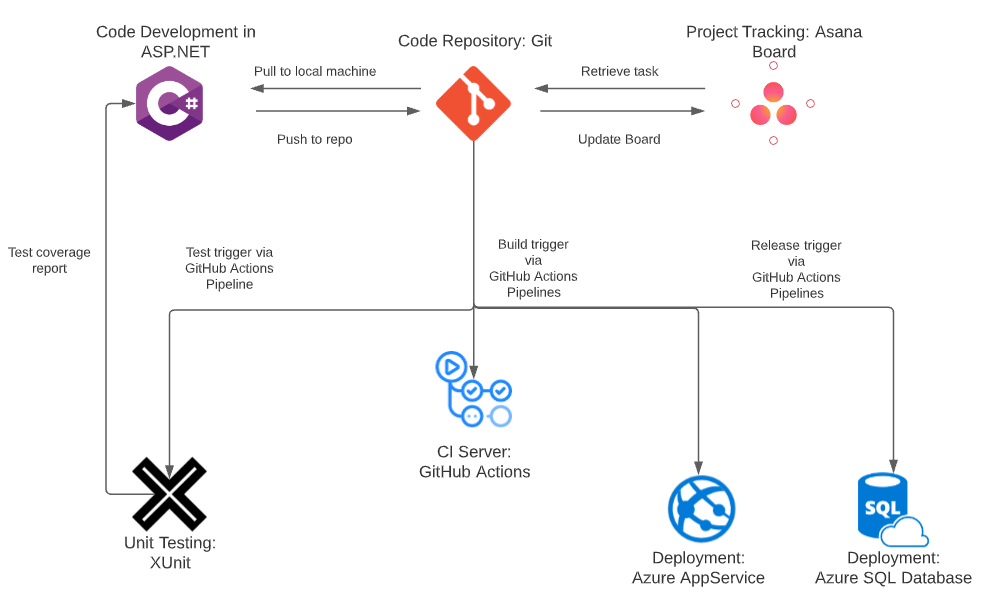
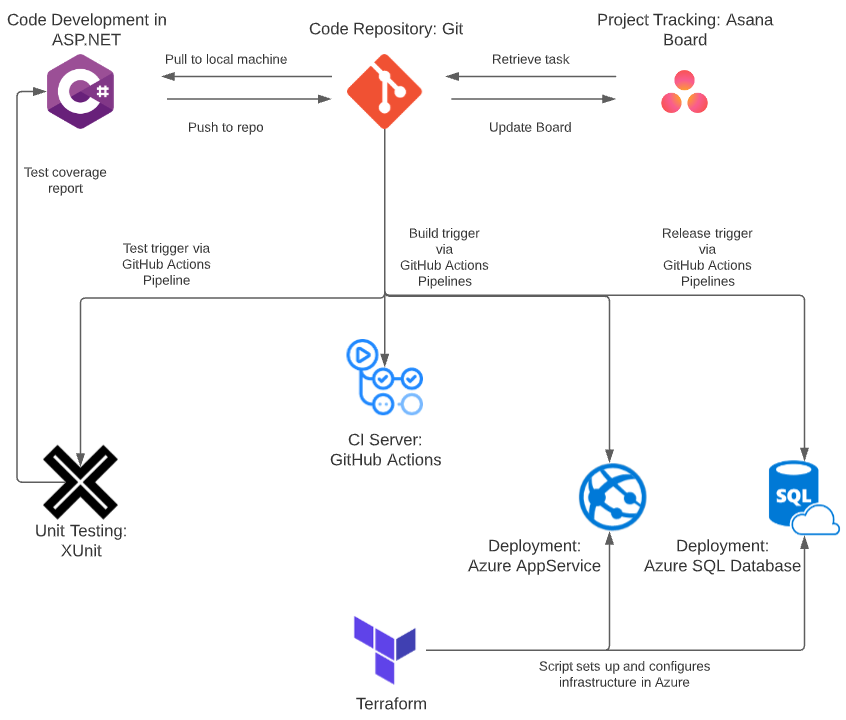
Add to readme, add pics for readme

diff --git a/README.md b/README.md
@@ -26,69 +26,74 @@ The requirements of the project are as follows:
 
 ## My Approach
 
-In order to achieve this, I have decided to produce a Holiday Generator.
+In order to achieve this, I have decided to produce a Holiday Generator App. The services used in this application would generate random periods, months and countries to form a random potential holiday.
 
+### User Stories
+The following user stories served as the starting product backlog items, from which child tasks were devised.
 
-|Service| Host Resource| Objective
-|---|---|---|
-Service 1 - Days| Azure App Service (Web App)| Generates the period of days that the holiday should be for. Randomly selects a number from an array that holds periods as integers, i.e. [3, 7, 14, etc.]
-Service 2 - Month| Azure App Service (Web App)| Generates the month that the holiday should be in. Randomly selects a month from an enumeration consisting of the 12 months of the year, i.e. [JAN, FEB, MAR, etc.]
-Service 3 - Merge| Azure App Service (Web App)| Takes the period of days from service 1 and the month from service 2 using GET requests. Generates a random country, based on the month. If the month is a cold month (e.g. DEC), randomly select a country from an array that holds a list of hot countries. If the month is a warm month (e.g. AUG), randomly select a country from an array that holds a list of cold countries. Returns the country, the month and the period of days combined.
-Service 4 - Front-End | Azure App Service (Web App)| Makes a GET request to take the result from service 3, stores the information in a database and then outputs the results to the web page for the user to see.
-Database | Azure SQL Database| Stores the results of service 4. The creation of the database entries take place in service 4.
+> As a User I want to be able to see a randomly generated month so that I can plan when to book my holiday.
 
-#### Service 1 - Days
-This service will generate the period of days that the holiday should be for. This service will randomly select a number from an array that holds periods as integers, i.e. [3, 7, 14, etc.]
+> As a User I want to be able to see a randomly generated period of days so that I can plan for how long to go on holiday.
 
-#### Service 2 - Month
-This service will generate the month that the holiday should be in. This service will randomly select a month from an enumeration consisting of the 12 months of the year, i.e. [JAN, FEB, MAR, etc.]
-
-#### Service 3 - Merge
-This service will take the period of days from service 1 and the month from service 2 using GET requests. It will then generate a random country, based on the month. 
-If the month is a cold month (e.g. DEC), it will randomly select a country from an array that holds a list of hot countries. If the month is a warm month (e.g. AUG), it will randomly select a country from an array that holds a list of cold countries. 
-This service will then return the country, the month and the period of days combined.
-
-#### Service 4 - Front-End
-This will make a GET request to take the result from service 3, store the information in a database and then output the results to the web page for the user to see.
-
+> As a User I want to be able to see a randomly generated country so that I can plan where to go on my holiday.
 
 ## Architecture
-### Database Structure
+
+### Service Architecture
+
+[Service Architecture](https://github.com/AmenaRafiq/HolidayGenerator/blob/main/docs/readme_pictures/servicearchitecture.PNG)
+
+| Service | Host Resource | Objective |
+|---|---|---|
+Service 1: Days| Azure App Service (Web App)| Generates the period of days that the holiday should be for. Randomly selects a number from an array that holds periods as integers, i.e. [3, 7, 14, etc.]
+Service 2: Month| Azure App Service (Web App)| Generates the month that the holiday should be in. Randomly selects a month from an enumeration consisting of the 12 months of the year, i.e. [JAN, FEB, MAR, etc.]
+Service 3: Merge| Azure App Service (Web App)| Takes the period of days from service 1 and the month from service 2 using GET requests. Generates a random country, based on the month. If the month is a cold month (e.g. DEC), randomly select a country from an array that holds a list of hot countries. If the month is a warm month (e.g. AUG), randomly select a country from an array that holds a list of cold countries. Returns the country, the month and the period of days combined.
+Service 4: Front-End | Azure App Service (Web App)| Makes a GET request to take the result from service 3, stores the information in a database and then outputs the results to the web page for the user to see.
+Database | Azure SQL Database| Stores the results of service 4. The creation of the database entries take place in service 4.
 
 ### Database Structure
 
-Below is an Entity Relationship Diagram showing the structure of the database. It shows the tables and the relationship between them. 
+Below is a somewhat vain Entity Relationship Diagram showing the structure of the database, which has just one table to store the results. The front-end application creates entries in the database each time new objects are generated and passed to it, i.e. every time the page refreshes. 
 
-insert image
+[Database ER diagram]()
 
 ### CI Pipeline
 
-Below is the continuous integration pipeline diagram that displays the project's associated services and frameworks. It shows how 
+Below is the continuous integration pipeline diagram that depicts how the project's associated services and frameworks work together. 
 
-insert image
+[architecture image](https://github.com/AmenaRafiq/HolidayGenerator/blob/main/docs/readme_pictures/architecture.PNG)
+
+It shows how the tasks in the Kanban board are used to produce the code, which is stored in a Git repository. The development of the project's assets are organised by separate git branches; once the feature is complete, the branch is merged into the main branch. Usually the feature branch is then deleted - I have kept them in the repository for marking purposes only. A GitHub Actions pipeline was used to test, build and deploy the project to Azure resources that were set up and configured by a terraform script.
+
+Here is a snippet of the terraform script, the full script can be viewed at [main.tf](https://github.com/AmenaRafiq/HolidayGenerator/blob/main/terraform/main.tf)
+
+[Terraform snippet]()
+
+An Azure App Service is provisioned for the front-end app with configurations to give it access to the database and the merge app for the code's GET requests. 
+
+Here is a snippet of the pipeline, the full script can be viewed at [main.yml](https://github.com/AmenaRafiq/HolidayGenerator/blob/main/.github/workflows/main.yml)
+
+[Pipeline snippet]()
+
+This snippet shows two jobs: test and build-and-deploy-days. Inside each job, steps are run on Linux machines, configured using workflow variables. The test job runs the test project [HolidayGeneratorTest](https://github.com/AmenaRafiq/HolidayGenerator/tree/main/code/HolidayGeneratorTest). The following job builds and deploys the [Days](https://github.com/AmenaRafiq/HolidayGenerator/tree/main/code/DaysService) app to Azure. The Month, Merge and Front-End apps are built and deployed with very similar jobs. The whole pipeline runs every time the main branch is pushed to, to allow for continuous deployment and integration.
 
 ## Project Tracking
 
-Asana was used to create a Kanban Board to track the progress of the project. The KanBan Board can be found [here]
-(Ben although the project is set to public I might need to add you as a member so you can fully access the board)
+Asana was used to create a Kanban Board to track the progress of the project. The Kanban Board can be found [here](https://app.asana.com/0/1200434306149251/board)
+(Although the project is set to public, I might need to add you as a member so you can fully access the board)
 
-The BackLog consists of the Epics and User Stories. 
-add image
+The board was designed with columns that move a task along the board from left to right until completion: 
+* Backlog
+* To Do (used for current sprint items)
+* Doing
+* Done
 
-Sprints then break down these stories with the additions of child tasks. Two sprints were devised, unfinished work from Iteration 1 was moved to Iteration 2.
+Here is a snippet of the board to show the columns:
+[Asana board snippet](https://github.com/AmenaRafiq/HolidayGenerator/blob/main/docs/readme_pictures/asanaboardsnippet.PNG)
 
-[Iteration 1]()
-add image
+Here is a snippet of some of the work items, in which it is shown that the user stories were also part of the backlog: 
+[Asana board work items snippet](https://github.com/AmenaRafiq/HolidayGenerator/blob/main/docs/readme_pictures/sampleworkitems.PNG)
 
-[Iteration 2]()
-add image
-
-The Boards were designed with columns that move a task along the board from left to right in stages of: 
-* New
-* Active 
-* Two stages of Completion: 
-  * Resolved (for bug fixes)  
-  * Closed (for the completion of tasks)
 
 ## Risk Assessment
 
@@ -96,21 +101,20 @@ insert risk assessment
 
 ## Testing
 
-[XUnit](https://xunit.net/) has been used to run unit tests. This tool makes use of an Assertion Library so that tests can be written to compare the result of a function to a known output. The tests for all of the projects (Days, Month, Merge, Front-End) are run in the pipeline. The following image is the section of the pipeline which runs the tests:
-
-[pipeline config image]()
+[XUnit](https://xunit.net/) has been used to run unit tests. This tool makes use of an Assertion Library so that tests can be written to compare the result of a function to a known output. The tests for all of the projects (Days, Month, Merge, Front-End) are run in the pipeline (as was shown in the pipeline section above). All four of the application's controllers have been tested to ensure the backend is fully functional so there are no faults for the front-end of each app. 
 
 ### Console Output
 
 Below is a screenshot of the console output from running the tests which displays the number of tests passed or failed:
 
-[console output image]()
+[console output image](https://github.com/AmenaRafiq/HolidayGenerator/blob/main/docs/readme_pictures/testrun.PNG)
 
 ### Coverage Report
 
-Below is a screenshot of the test coverage report that has been generated to display a breakdown of the successfully tested code in the app. The report is located in the HolidayGeneratorTest project
+Below is a screenshot of the test coverage report that has been generated to display a breakdown of the successfully tested code in the app.
 
-[coverage report image]()
+[coverage report image](https://github.com/AmenaRafiq/HolidayGenerator/blob/main/docs/readme_pictures/codecoverage1.PNG)
+[coverage report image](https://github.com/AmenaRafiq/HolidayGenerator/blob/main/docs/readme_pictures/codecoverage2.PNG)
 
 
 ## Front-End Design
@@ -118,6 +122,7 @@ Below is a screenshot of the test coverage report that has been generated to dis
 -
 
 ## Future Improvements
+
 Deploying the 3 services (Days, Month and Merge) as Azure Function Apps would be a more economical approach. This is because although an App Service may be stopped, it still incurs charges for the selected plan. Azure Functions are 
 
 
